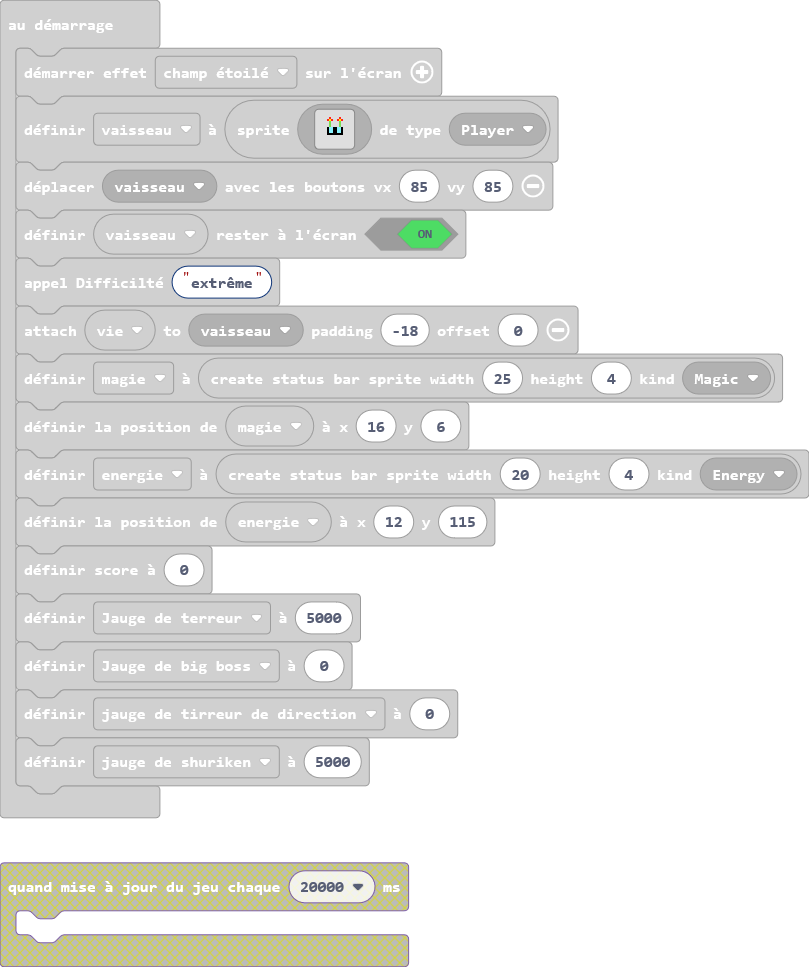
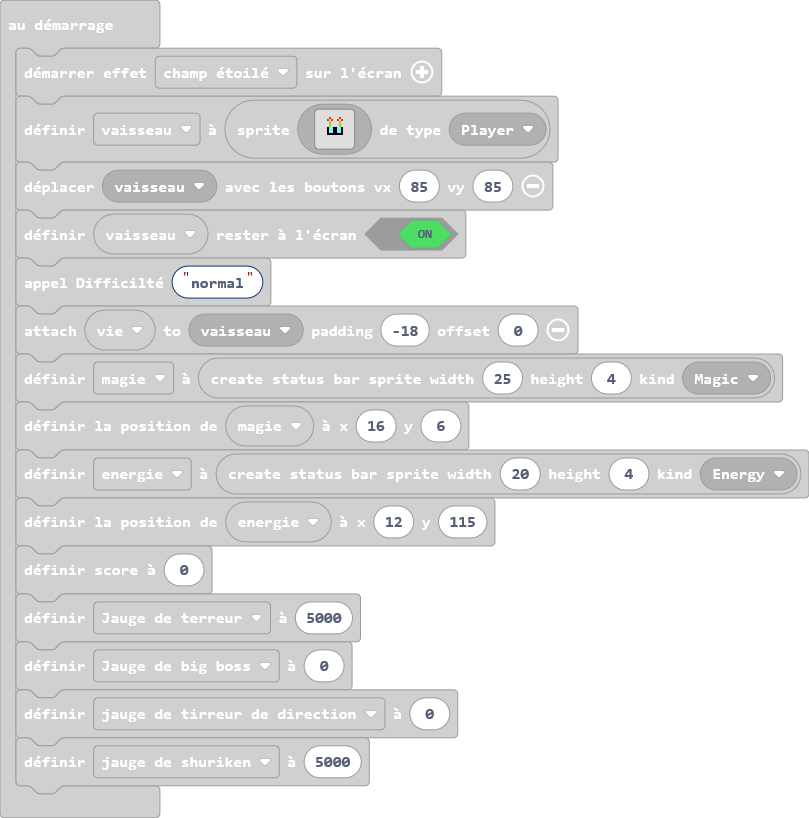
Mise à jour main.blocks, main.ts

diff --git a/main.ts b/main.ts
@@ -204,7 +204,7 @@ vaisseau = sprites.create(img`
     `, SpriteKind.Player)
 controller.moveSprite(vaisseau, 85, 85)
 vaisseau.setStayInScreen(true)
-Difficilté("extrême")
+Difficilté("normal")
 vie.attachToSprite(vaisseau, -18, 0)
 magie = statusbars.create(25, 4, StatusBarKind.Magic)
 magie.setPosition(16, 6)
